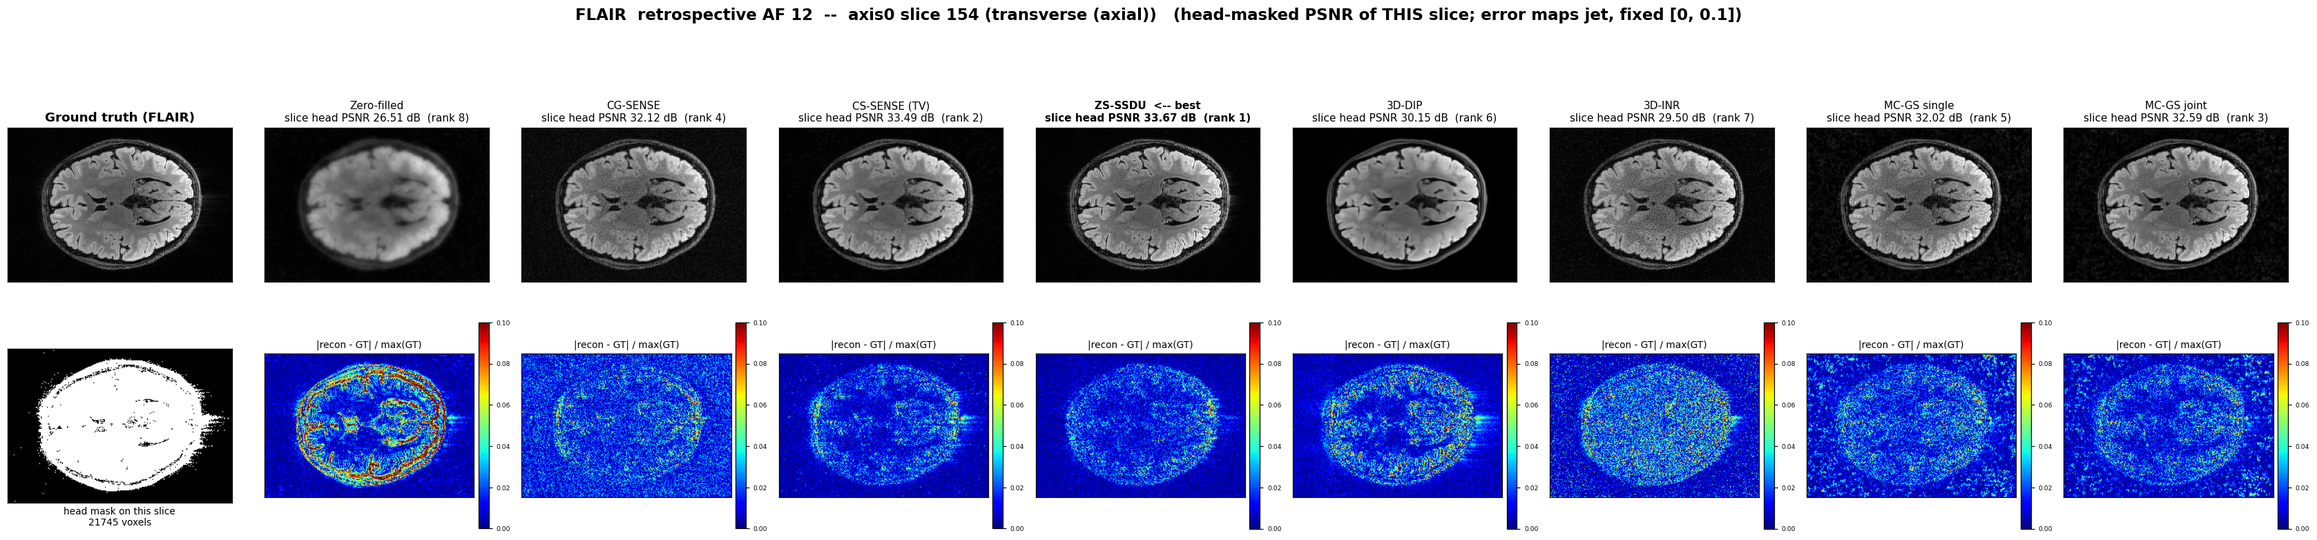
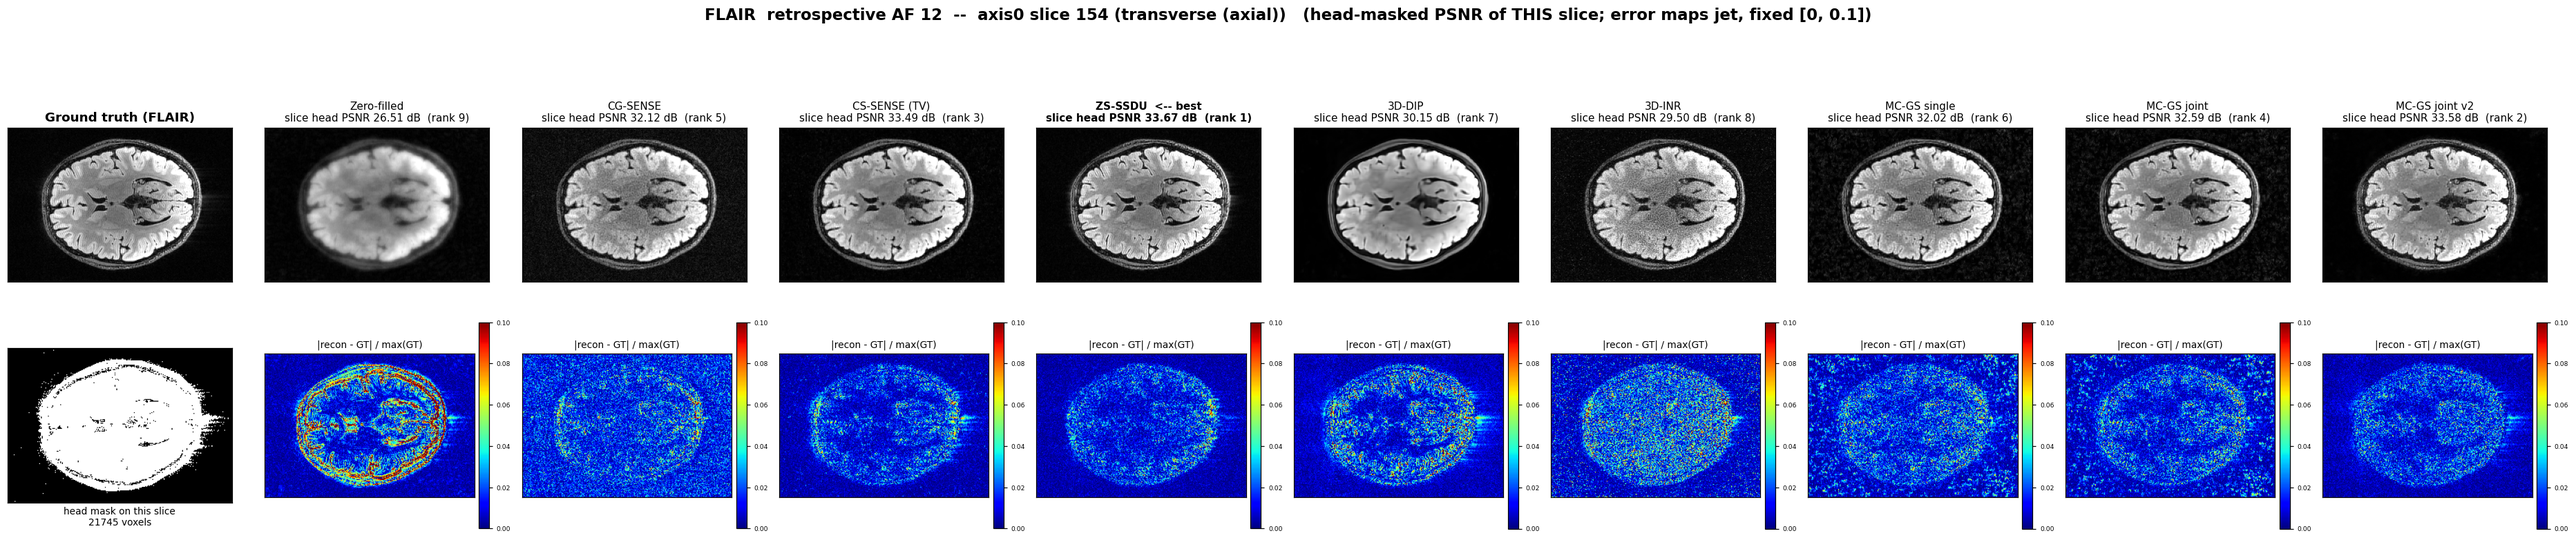
figures: butterfly-level (lateral-ventricle) transverse slice with the v2 arms and the in-head P95 window, all three AF12 topics

diff --git a/t1t2_af12_retro/scripts/fig_slice.py b/t1t2_af12_retro/scripts/fig_slice.py
@@ -12,7 +12,7 @@ ap = argparse.ArgumentParser()
 ap.add_argument("--contrast", required=True, choices=["T1", "T2"])
 ap.add_argument("--axis", type=int, required=True, choices=[0, 1, 2])
 ap.add_argument("--index", type=int, required=True)
-ap.add_argument("--methods", default="zf,cgsense,cssense,zsssdu,dip,inr,gs_single,gs_joint")
+ap.add_argument("--methods", default="zf,cgsense,cssense,zsssdu,dip,inr,gs_single,gs_joint,gs_single_v2,gs_joint_v2")
 ap.add_argument("--tag", default="best")
 args = ap.parse_args()
 
@@ -26,7 +26,8 @@ F = Path("/home/congcongliu/figs/t1t2_af12"); F.mkdir(parents=True, exist_ok=Tru
 ANAT = {0: "transverse (axial)", 1: "coronal", 2: "sagittal"}   # adjudicated 2026-09-09, see README
 LABEL = {"zf": "Zero-filled", "cgsense": "CG-SENSE", "cssense": "CS-SENSE (TV)",
          "zsssdu": "ZS-SSDU", "dip": "3D-DIP", "inr": "3D-INR",
-         "gs_single": "MC-GS single", "gs_joint": "MC-GS joint"}
+         "gs_single": "MC-GS single", "gs_joint": "MC-GS joint",
+         "gs_single_v2": "MC-GS single v2", "gs_joint_v2": "MC-GS joint v2"}
 
 
 def load(m, c):
@@ -54,7 +55,7 @@ rank = {m: r + 1 for r, m in enumerate(sorted(psnr, key=lambda k: -psnr[k]))}
 
 ncol = len(methods) + 1
 fig, axes = plt.subplots(2, ncol, figsize=(3.4 * ncol, 7.6))
-vmax = float(np.quantile(gp, 0.999))
+vmax = float(np.quantile(gp[hp], 0.95)) if hp.any() else float(np.quantile(gp, 0.999))   # in-head P95 window, same as make_figures.py
 axes[0, 0].imshow(gp.T, cmap="gray", vmin=0, vmax=vmax, origin="lower")
 axes[0, 0].set_title(f"Ground truth ({c})", fontsize=12, fontweight="bold")
 axes[1, 0].imshow(hp.T, cmap="gray", origin="lower")

diff --git a/t1flair_af12_retro/scripts/fig_slice.py b/t1flair_af12_retro/scripts/fig_slice.py
@@ -12,7 +12,7 @@ ap = argparse.ArgumentParser()
 ap.add_argument("--contrast", required=True, choices=["T1", "FLAIR"])
 ap.add_argument("--axis", type=int, required=True, choices=[0, 1, 2])
 ap.add_argument("--index", type=int, required=True)
-ap.add_argument("--methods", default="zf,cgsense,cssense,zsssdu,dip,inr,gs_single,gs_joint")
+ap.add_argument("--methods", default="zf,cgsense,cssense,zsssdu,dip,inr,gs_single,gs_joint,gs_joint_v2")
 ap.add_argument("--tag", default="best")
 args = ap.parse_args()
 
@@ -26,7 +26,8 @@ F = Path("/home/congcongliu/figs/t1flair_af12"); F.mkdir(parents=True, exist_ok=
 ANAT = {0: "transverse (axial)", 1: "coronal", 2: "sagittal"}   # adjudicated 2026-09-09, see README
 LABEL = {"zf": "Zero-filled", "cgsense": "CG-SENSE", "cssense": "CS-SENSE (TV)",
          "zsssdu": "ZS-SSDU", "dip": "3D-DIP", "inr": "3D-INR",
-         "gs_single": "MC-GS single", "gs_joint": "MC-GS joint"}
+         "gs_single": "MC-GS single", "gs_joint": "MC-GS joint",
+         "gs_single_v2": "MC-GS single v2", "gs_joint_v2": "MC-GS joint v2"}
 
 
 def load(m, c):
@@ -54,7 +55,7 @@ rank = {m: r + 1 for r, m in enumerate(sorted(psnr, key=lambda k: -psnr[k]))}
 
 ncol = len(methods) + 1
 fig, axes = plt.subplots(2, ncol, figsize=(3.4 * ncol, 7.6))
-vmax = float(np.quantile(gp, 0.999))
+vmax = float(np.quantile(gp[hp], 0.95)) if hp.any() else float(np.quantile(gp, 0.999))   # in-head P95 window, same as make_figures.py
 axes[0, 0].imshow(gp.T, cmap="gray", vmin=0, vmax=vmax, origin="lower")
 axes[0, 0].set_title(f"Ground truth ({c})", fontsize=12, fontweight="bold")
 axes[1, 0].imshow(hp.T, cmap="gray", origin="lower")

diff --git a/t1flair_af12_v3_jiangyizhou/scripts/fig_slice.py b/t1flair_af12_v3_jiangyizhou/scripts/fig_slice.py
@@ -12,7 +12,7 @@ ap = argparse.ArgumentParser()
 ap.add_argument("--contrast", required=True, choices=["T1", "FLAIR"])
 ap.add_argument("--axis", type=int, required=True, choices=[0, 1, 2])
 ap.add_argument("--index", type=int, required=True)
-ap.add_argument("--methods", default="zf,cgsense,cssense,zsssdu,dip,inr,gs_single,gs_joint")
+ap.add_argument("--methods", default="zf,cgsense,cssense,zsssdu,dip,inr,gs_single,gs_joint,gs_joint_v2")
 ap.add_argument("--tag", default="best")
 args = ap.parse_args()
 
@@ -26,7 +26,8 @@ F = Path("/home/congcongliu/figs/t1flair_v3_af12"); F.mkdir(parents=True, exist_
 ANAT = {0: "transverse (axial)", 1: "coronal", 2: "sagittal"}   # adjudicated 2026-09-09, see README
 LABEL = {"zf": "Zero-filled", "cgsense": "CG-SENSE", "cssense": "CS-SENSE (TV)",
          "zsssdu": "ZS-SSDU", "dip": "3D-DIP", "inr": "3D-INR",
-         "gs_single": "MC-GS single", "gs_joint": "MC-GS joint"}
+         "gs_single": "MC-GS single", "gs_joint": "MC-GS joint",
+         "gs_single_v2": "MC-GS single v2", "gs_joint_v2": "MC-GS joint v2"}
 
 
 def load(m, c):
@@ -54,7 +55,7 @@ rank = {m: r + 1 for r, m in enumerate(sorted(psnr, key=lambda k: -psnr[k]))}
 
 ncol = len(methods) + 1
 fig, axes = plt.subplots(2, ncol, figsize=(3.4 * ncol, 7.6))
-vmax = float(np.quantile(gp, 0.999))
+vmax = float(np.quantile(gp[hp], 0.95)) if hp.any() else float(np.quantile(gp, 0.999))   # in-head P95 window, same as make_figures.py
 axes[0, 0].imshow(gp.T, cmap="gray", vmin=0, vmax=vmax, origin="lower")
 axes[0, 0].set_title(f"Ground truth ({c})", fontsize=12, fontweight="bold")
 axes[1, 0].imshow(hp.T, cmap="gray", origin="lower")
